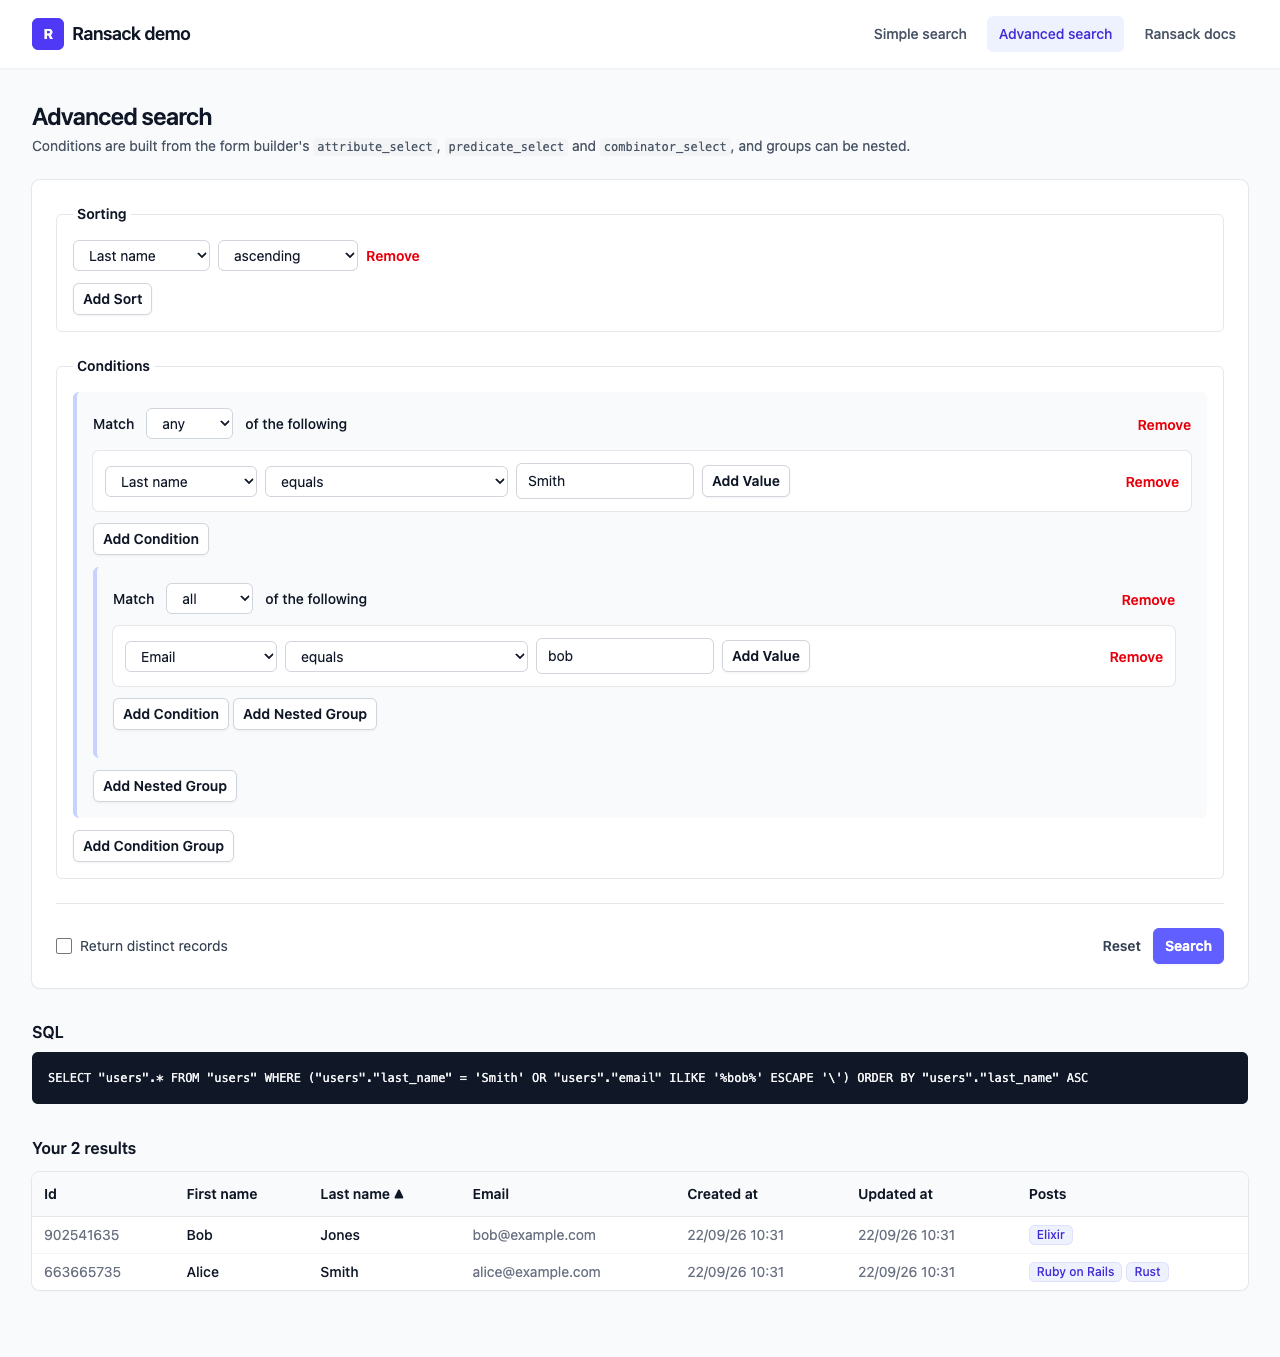
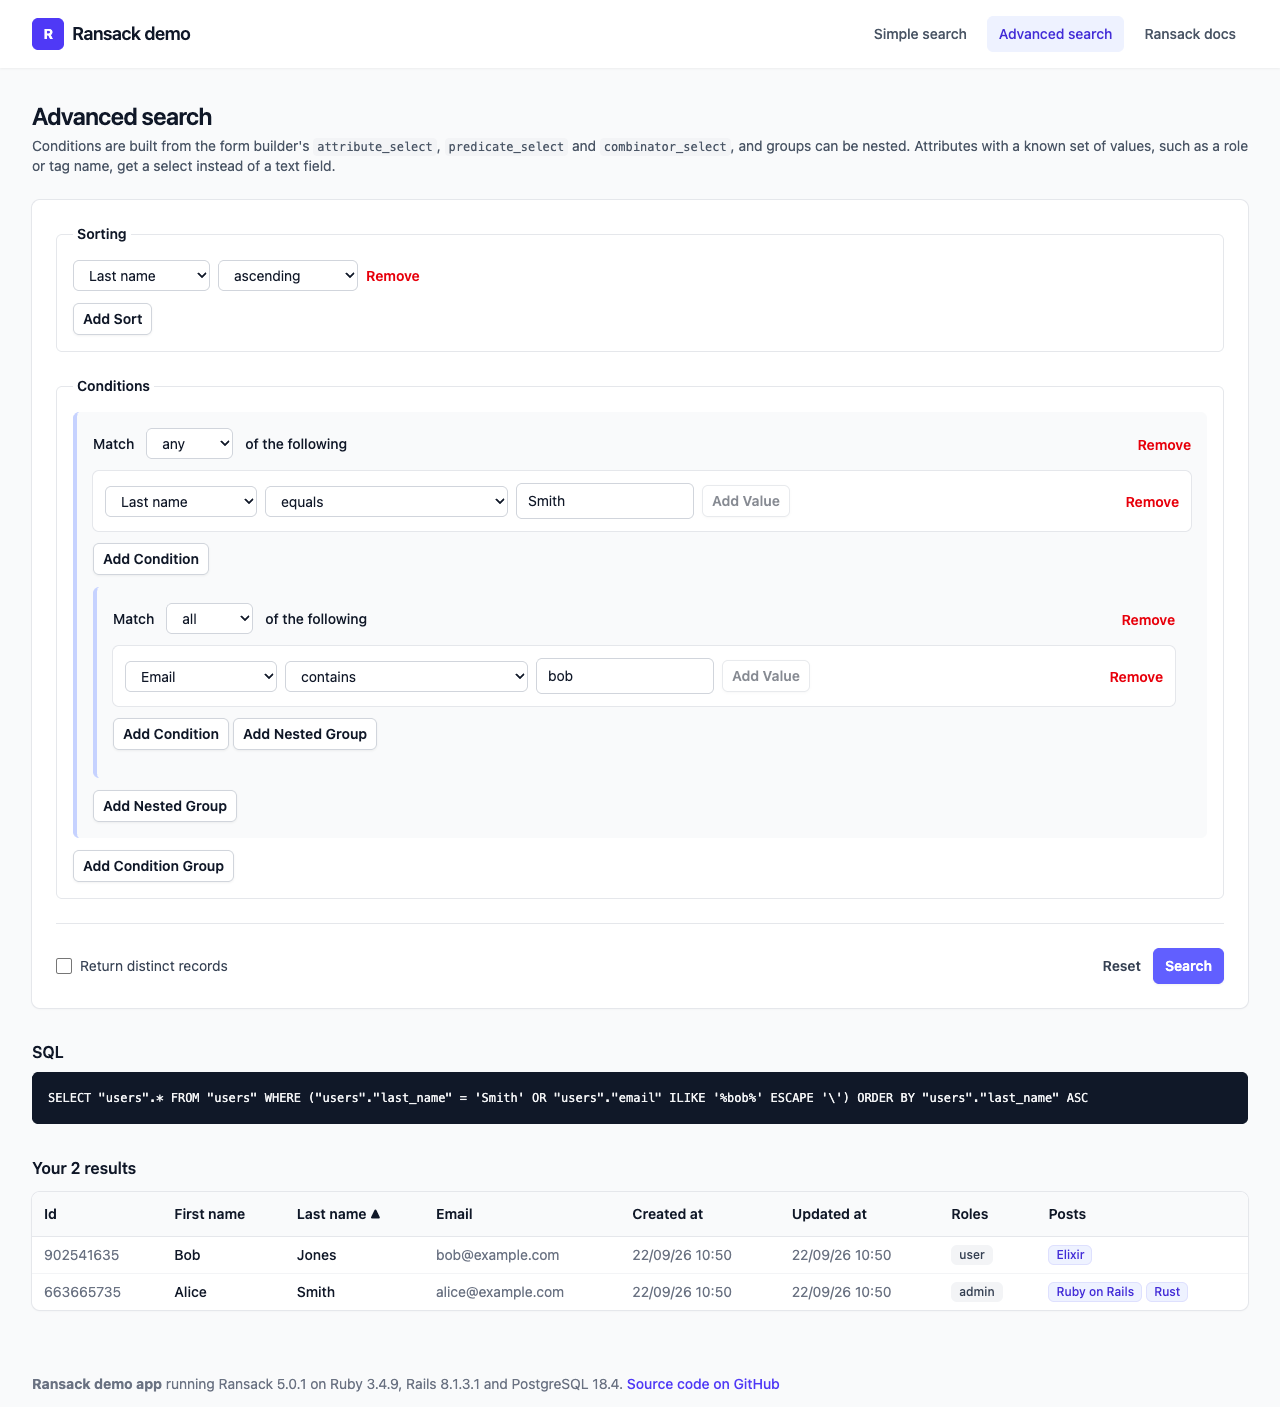
Offer selects for association values
Closes #15.

- Allowlist comments, roles and posts -> tags for search, so the
  attribute select reaches roles_name, comments_body and posts_tags_name
- Simple search gains multi-selects for roles (roles_name_in) and tags
  (posts_tags_name_in, two associations deep)
- Advanced search swaps the value text field for a select when the
  chosen attribute has a known set of values (role and tag names); the
  server renders the select on re-render and the Stimulus controller
  swaps it in when the attribute changes
- Results show each user's roles; association labels for the tag groups

diff --git a/app/javascript/controllers/search_controller.js b/app/javascript/controllers/search_controller.js
@@ -11,12 +11,33 @@ import { Controller } from "@hotwired/stimulus"
 // without an infinite loop, so a single grouping template is rendered once
 // under the object name "new_object_name" and re-parented here on each nest.
 export default class extends Controller {
-  static targets = ["groupingTemplate"]
+  static targets = ["groupingTemplate", "valueInput", "valueOptions"]
 
   add(event) {
     const button = event.currentTarget
     const template = button.previousElementSibling
     button.insertAdjacentHTML("beforebegin", this.stamp(template.innerHTML, event.params.type))
+    if (event.params.type === "value") this.syncValueFields(button.closest("[data-fields=condition]"))
+  }
+
+  // Attributes with a known set of values (see UsersHelper#value_options) get
+  // a select instead of a text field, swapped in whenever the attribute changes.
+  attributeChanged(event) {
+    this.syncValueFields(event.currentTarget.closest("[data-fields=condition]"))
+  }
+
+  syncValueFields(condition) {
+    const attribute = condition.querySelector("select[name$='[name]']").value
+    const options = this.valueOptionsTargets.find((template) => template.dataset.attribute === attribute)
+    const template = options || this.valueInputTarget
+    condition.querySelectorAll("[data-fields=value]").forEach((container) => {
+      const current = container.querySelector("input, select")
+      const replacement = template.content.firstElementChild.cloneNode(true)
+      if (current.tagName === "INPUT" && replacement.tagName === "INPUT") return
+      replacement.name = current.name
+      replacement.id = current.id
+      current.replaceWith(replacement)
+    })
   }
 
   remove(event) {

diff --git a/app/helpers/users_helper.rb b/app/helpers/users_helper.rb
@@ -8,8 +8,38 @@ module UsersHelper
     10
   end
 
-  def user_posts_and_comments
-    %w[posts other_posts comments].freeze
+  # Associations offered in the advanced search's attribute select. An entry
+  # such as posts_tags reaches through an association, giving posts_tags_name.
+  def searchable_associations
+    %w[posts posts_tags other_posts other_posts_tags comments roles].freeze
+  end
+
+  # Attributes whose values come from a short, known list. The advanced search
+  # offers these as a select instead of a free-text field.
+  def value_options
+    tag_names = Tag.order(:name).pluck(:name)
+    {
+      "roles_name" => Role.order(:name).pluck(:name),
+      "posts_tags_name" => tag_names,
+      "other_posts_tags_name" => tag_names
+    }
+  end
+
+  # The attribute of the condition a value field belongs to.
+  def condition_attribute(value_builder)
+    value_builder.options[:parent_builder].object.attributes.first&.name
+  end
+
+  # Templates the search controller clones when the attribute of a condition
+  # changes: a plain text input, and one select per attribute in value_options.
+  def value_field_templates
+    input = tag.template text_field_tag("value", nil, class: [input_classes, "w-40"], placeholder: "Value"),
+      data: {search_target: "valueInput"}
+    selects = value_options.map do |attribute, options|
+      tag.template select_tag("value", options_for_select(options), include_blank: true, class: select_classes),
+        data: {search_target: "valueOptions", attribute: attribute}
+    end
+    safe_join([input, *selects])
   end
 
   def user_wants_distinct_results?

diff --git a/test/controllers/users_controller_test.rb b/test/controllers/users_controller_test.rb
@@ -113,6 +113,26 @@ class UsersControllerTest < ActionDispatch::IntegrationTest
     assert_select "[data-fields=condition] input[name$='[value]'][value=Carol]"
   end
 
+  test "index filters by role and by tag through selects" do
+    get users_url, params: {q: {roles_name_in: ["", "user"]}}
+    assert_result_emails %w[bob@example.com carol@example.com]
+    assert_select "select[name='q[roles_name_in][]'] option[selected][value=user]"
+
+    get users_url, params: {q: {posts_tags_name_in: ["", "ruby", "web"]}, distinct: 1}
+    assert_result_emails %w[alice@example.com]
+  end
+
+  test "advanced search renders a select for attributes with known values" do
+    get advanced_search_users_url, params: {
+      q: {g: {"0" => {c: {"0" => {a: {"0" => {name: "roles_name"}}, p: "eq", v: {"0" => {value: "admin"}}}}}}}
+    }
+    assert_response :success
+    assert_result_emails %w[alice@example.com]
+    assert_select "[data-fields=value] select[name='q[g][0][c][0][v][0][value]'] option[selected][value=admin]"
+    assert_select "template[data-search-target=valueOptions][data-attribute=roles_name] option[value=admin]"
+    assert_select "template[data-search-target=valueOptions][data-attribute=posts_tags_name] option[value=ruby]"
+  end
+
   test "advanced search ignores attributes that are not allowlisted" do
     post advanced_search_users_url, params: {
       q: {g: {"0" => {c: {"0" => {a: {"0" => {name: "password_digest"}}, p: "cont", v: {"0" => {value: "x"}}}}}}}

diff --git a/test/system/advanced_search_test.rb b/test/system/advanced_search_test.rb
@@ -100,6 +100,30 @@ class AdvancedSearchTest < ApplicationSystemTestCase
     assert_result_emails %w[alice@example.com carol@example.com]
   end
 
+  test "an attribute with known values gets a select" do
+    visit advanced_search_users_url
+
+    click_on "Add Condition"
+    within_last :condition do
+      choose_attribute "roles_name"
+      select "admin", from: find("select[name$='[value]']")[:name]
+
+      choose_attribute "first_name"
+      assert_selector "input[placeholder=Value]"
+      assert_no_selector "select[name$='[value]']"
+
+      choose_attribute "posts_tags_name"
+      assert_selector "select[name$='[value]'] option[value=ruby]"
+
+      choose_attribute "roles_name"
+      select "admin", from: find("select[name$='[value]']")[:name]
+    end
+    click_on "Search"
+
+    assert_text "Your 1 result"
+    assert_result_emails %w[alice@example.com]
+  end
+
   private
 
   def within_last(type, &block)
@@ -108,6 +132,10 @@ class AdvancedSearchTest < ApplicationSystemTestCase
 
   def attribute_select
     find("select[name$='[a][0][name]']")[:name]
+  end
+
+  def choose_attribute(value)
+    find("select[name$='[a][0][name]'] option[value=#{value}]").select_option
   end
 
   def predicate_select

diff --git a/test/models/user_test.rb b/test/models/user_test.rb
@@ -10,7 +10,12 @@ class UserTest < ActiveSupport::TestCase
     assert_not_includes User.ransortable_attributes, "password_digest"
   end
 
-  test "only posts associations are searchable" do
-    assert_equal %w[posts other_posts], User.ransackable_associations
+  test "searchable associations are allowlisted" do
+    assert_equal %w[posts other_posts comments roles], User.ransackable_associations
+  end
+
+  test "searches through roles and through posts to tags" do
+    assert_equal [users(:alice)], User.ransack(roles_name_in: ["admin"]).result.to_a
+    assert_equal [users(:bob)], User.ransack(posts_tags_name_in: ["functional"]).result.to_a
   end
 end

diff --git a/app/models/user.rb b/app/models/user.rb
@@ -39,10 +39,10 @@ class User < ApplicationRecord
     ransortable_attributes + _ransackers.keys
   end
 
-  # Allowlist the User model associations for sorting, only posts.
+  # Allowlist the User model associations for search.
   #
   def self.ransackable_associations(auth_object = nil)
-    ["posts", "other_posts"]
+    ["posts", "other_posts", "comments", "roles"]
   end
 
   # Demonstration of using a "ransacker" (a virtual, searchable "column") to

diff --git a/app/models/post.rb b/app/models/post.rb
@@ -22,9 +22,11 @@ class Post < ApplicationRecord
     tags.join(", ")
   end
 
-  private
-
-  def self.ransackable_attributes(_auth_object)
+  def self.ransackable_attributes(_auth_object = nil)
     ["title"]
+  end
+
+  def self.ransackable_associations(_auth_object = nil)
+    ["tags"]
   end
 end

diff --git a/app/controllers/users_controller.rb b/app/controllers/users_controller.rb
@@ -15,7 +15,7 @@ class UsersController < ApplicationController
   private
 
   def ransack_params
-    User.includes(:posts).ransack(params[:q])
+    User.includes(:posts, :roles).ransack(params[:q])
   end
 
   def ransack_result

diff --git a/app/models/comment.rb b/app/models/comment.rb
@@ -3,4 +3,8 @@ class Comment < ApplicationRecord
   belongs_to :post
 
   validates_presence_of :user, :post
+
+  def self.ransackable_attributes(_auth_object = nil)
+    ["body"]
+  end
 end

diff --git a/app/models/role.rb b/app/models/role.rb
@@ -1,3 +1,7 @@
 class Role < ApplicationRecord
   has_and_belongs_to_many :users
+
+  def self.ransackable_attributes(_auth_object = nil)
+    ["name"]
+  end
 end

diff --git a/app/models/posts_mixin.rb b/app/models/posts_mixin.rb
@@ -1,5 +1,5 @@
 module PostsMixin
-  def ransackable_attributes(_auth_object)
+  def ransackable_attributes(_auth_object = nil)
     ["title"]
   end
 end

diff --git a/app/models/tag.rb b/app/models/tag.rb
@@ -1,3 +1,7 @@
 class Tag < ApplicationRecord
   has_many :taggings
+
+  def self.ransackable_attributes(_auth_object = nil)
+    ["name"]
+  end
 end
